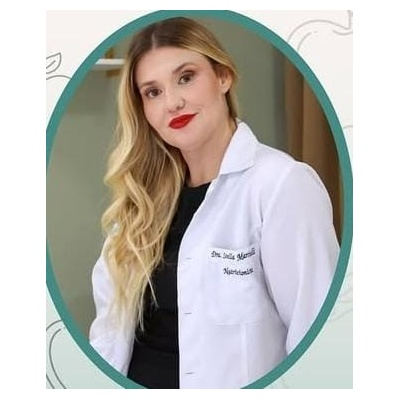
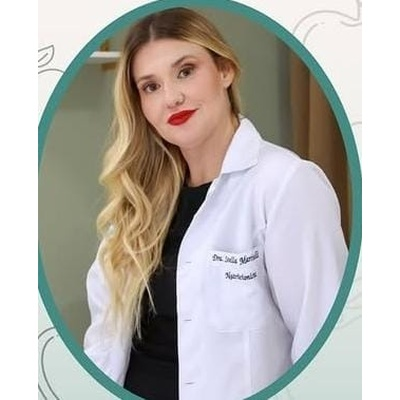
fix(professionals): fix Dra Stella photo mapping by preventing surname collision with Fonseca and update to official white background photo

diff --git a/src/hooks/useRealProfessionals.ts b/src/hooks/useRealProfessionals.ts
@@ -65,12 +65,12 @@ export function resolveDoctorAvatar(name: string, crm: string, currentAvatar?: s
   if (n.includes("ingrid") && (n.includes("chiullo") || n.includes("miranda") || c.includes("216629"))) return "/avatars/dra-ingrid-chiullo.jpg";
   if (n.includes("eduardo") && (n.includes("correa") || n.includes("migueis") || c.includes("19333"))) return "/avatars/dr-eduardo-correa.jpg";
   if ((n.includes("luiz roberto") && n.includes("medina")) || c.includes("11496")) return "/avatars/dr-luiz-roberto-medina.jpg";
-  if (n.includes("victor henrique") || n.includes("fonseca") || c.includes("206873")) return "/avatars/dr-victor-fonseca.jpg?v=2";
+  if (n.includes("stella") || n.includes("martinelli") || c.includes("21102111")) return "/avatars/dra-stella-martinelli.jpg?v=20261022";
+  if ((n.includes("victor") && n.includes("fonseca")) || n.includes("victor henrique") || c.includes("206873")) return "/avatars/dr-victor-fonseca.jpg?v=2";
   if (n.includes("otavio") || n.includes("otávio") || n.includes("bassete") || c.includes("21907")) return "/avatars/dr-otavio-bassete.jpg";
   if (n.includes("sadi") || n.includes("menta") || c.includes("16301")) return "/avatars/dr-sadi-menta.jpg?v=1";
   if (n.includes("geovana") || n.includes("mozaner") || c.includes("98083") || c.includes("247790")) return "/avatars/dra-geovana-torres.jpg?v=1";
   if (n.includes("grace") || n.includes("conceicao") || n.includes("conceição") || c.includes("190386") || c.includes("190.386") || c.includes("10372")) return "/avatars/dra-grace-conceicao.jpg?v=1";
-  if (n.includes("stella") || n.includes("martinelli") || c.includes("21102111")) return "/avatars/dra-stella-martinelli.jpg?v=3";
   if (n.includes("mariana") && (n.includes("alves") || n.includes("rezende") || c.includes("135012"))) return "/avatars/dra-mariana-alves.jpg";
   if (n.includes("breno") || n.includes("boueri") || n.includes("affonso") || c.includes("75492")) return "/avatars/dr-breno-boueri.jpg?v=4";
   if (n.includes("milton") || n.includes("urban") || c.includes("58169")) return "/avatars/dr-milton-urban.jpg?v=4";

diff --git a/src/data/professionals.ts b/src/data/professionals.ts
@@ -1178,7 +1178,7 @@ export const professionals: Professional[] = [
     rating: 5.0,
     consults: 0,
     avatar: "SM",
-    imageUrl: "/avatars/dra-stella-martinelli.jpg",
+    imageUrl: "/avatars/dra-stella-martinelli.jpg?v=20261022",
     flags: ["🇧🇷"],
     crm: "CRN-4 21102111/RJ",
     online: true,
